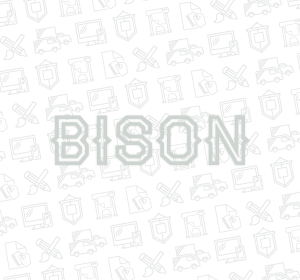
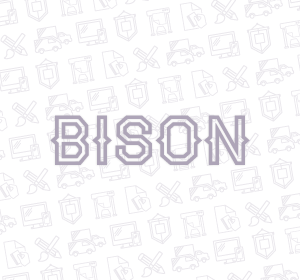
added bison page and change colors

Changed region(s): [[0.15, 0.4, 0.84, 0.6]]

diff --git a/script.js b/script.js
@@ -1,44 +1,67 @@
 jQuery(document).ready(function($) {
   
+  var altImage = "_mouseenter.png";
+
   $('#logos img').mouseenter(function() {
 
-  	$(this).attr("src", "images/logos_mouseenter.png")
+  	$(this).attr("src", "images/logos" + altImage).mouseleave(function() {
+
+    $(this).attr("src", "images/logos.png")
+
+    });
 
   });
   
-  $('#logos img').mouseleave(function() {
-
-  	$(this).attr("src", "images/logos.png")
-
-  });
   
   $('#web img').mouseenter(function() {
 
-  	$(this).attr("src", "images/web_mouseenter.png")
+  	$(this).attr("src", "images/web" + altImage).mouseleave(function() {
+
+    $(this).attr("src", "images/web.png")
+
+    });
 
   });
   
-  $('#web img').mouseleave(function() {
-
-  	$(this).attr("src", "images/web.png")
-
-  });
 
   $('#bison img').mouseenter(function() {
 
-  	$(this).attr("src", "images/bison_mouseenter.png")
+  	$(this).attr("src", "images/bison" + altImage).mouseleave(function() {
+
+    $(this).attr("src", "images/bison.png")
+
+    });
 
   });
-  
-  $('#bison img').mouseleave(function() {
 
-  	$(this).attr("src", "images/bison.png")
+  $('#limric img').mouseenter(function() {
+
+    $(this).attr("src", "images/limric" + altImage).mouseleave(function() {
+
+    $(this).attr("src", "images/limric.png")
+
+    });
+
+  });
+
+  $('#fhc img').mouseenter(function() {
+
+    $(this).attr("src", "images/fhc" + altImage).mouseleave(function() {
+
+    $(this).attr("src", "images/fhc.png")
+
+    });
+
+  });
+
+  $('#wedding img').mouseenter(function() {
+
+    $(this).attr("src", "images/wedding" + altImage).mouseleave(function() {
+
+    $(this).attr("src", "images/wedding.png")
+
+    });
 
   });
 
 });
-
-
-/* $( "img" ).attr( "src", function() {
-  return "/resources/" + this.title;
-}); */

diff --git a/bison.html b/bison.html
@@ -1,0 +1,59 @@
+<!doctype html>
+
+<html>
+<head>
+
+	<title>Adrienne Hodges | Designer | Front End Developer in Progress</title>
+
+	<!-- Stylesheets -->
+	<link rel="stylesheet" href="normalize.css" />
+	<link rel="stylesheet" href="styles.css" />
+	<script src="https://ajax.googleapis.com/ajax/libs/jquery/1.11.2/jquery.min.js"></script>
+	<script type="text/javascript" src="script.js"></script>
+
+</head>
+<body>
+
+	<header>
+		<div class="container">
+			<div class="logo">
+				<img src="images/adrienne_logo.png" alt="logo" />
+			</div>
+			<nav>
+				<ul>
+					<li><a href="index.html">WORK</a></li>
+					<li><a href="#">ABOUT ME</a></li>
+					<li><a href="#">RESUME</a></li>
+				</ul>
+			</nav>
+		</div>
+	</header>
+
+	<div id="content" class="container">
+		
+			<div id="first" class="ads">
+				<img src="images/bison_knife.gif" alt="bison city paper ad" />
+			</div>
+			<div class="ads">
+				<img src="images/bison_beastly.gif" alt="bison city paper ad" />
+			</div>
+			<div class="ads">
+				<img src="images/bison_sign.gif" alt="bison city paper ad" />
+			</div>
+			<div class="ads">
+				<img src="images/bison_weavers.gif" alt="bison city paper ad" />
+			</div>
+			<div class="ads">
+				<img src="images/bison_services.gif" alt="bison city paper ad" />
+			</div>
+			<div class="ads">
+				<img src="images/bison_cookie.gif" alt="bison city paper ad" />
+			</div>
+			
+	</div><!-- / #content -->
+
+	<footer></footer>
+
+
+</body>
+</html>

diff --git a/index.html b/index.html
@@ -37,19 +37,19 @@
 				<a href="logos.html"><img src="images/logos.png" alt="logos" /></a>
 			</div>
 			<div id="bison" class="project">
-				<img src="images/bison.png" alt="bison" />
+				<a href="bison.html"><img src="images/bison.png" alt="bison" /></a>
 			</div>
 		</div> <!-- / #row_one -->
 
 		<div id="row_two" class="row">
-			<div class="project">
-				<img src="images/project.jpg" alt="logos" />
+			<div id="limric" class="project">
+				<img src="images/limric.png" alt="limric" />
 			</div>
-			<div class="project">
-				<img src="images/project.jpg" alt="logos" />
+			<div id="fhc" class="project">
+				<img src="images/fhc.png" alt="febreze home collection" />
 			</div>
-			<div class="project">
-				<img src="images/project.jpg" alt="logos" />
+			<div id="wedding" class="project">
+				<img src="images/wedding.png" alt="our wedding" />
 			</div>
 		</div> <!-- / #row_two -->
 

diff --git a/styles.css b/styles.css
@@ -1,7 +1,7 @@
 .container {
-	width: 960px;
+	width: 100%;
 	margin: 0 auto;
-	background-color: #fff;
+	background-color: #FFFF;
 }
 
 header {
@@ -37,11 +37,11 @@ header nav ul li a {
 	margin-right: 40px;
 	margin-left: 40px;
 	text-decoration: none;
-	color: #c2c1bc;
+	color: #92A8C8;
 }
 
 header nav ul li a:hover {
-	color: #C4dad5;
+	color: #FDC47E;
 }
 
 #content {
@@ -56,3 +56,13 @@ header nav ul li a:hover {
 	margin-left: 5px;
 	margin-bottom: 5px;
 }	
+
+.ads {
+	display: block;
+	text-align: center;
+	margin-top: 35px;
+}
+
+#first {
+	margin-top: 5px;
+}
